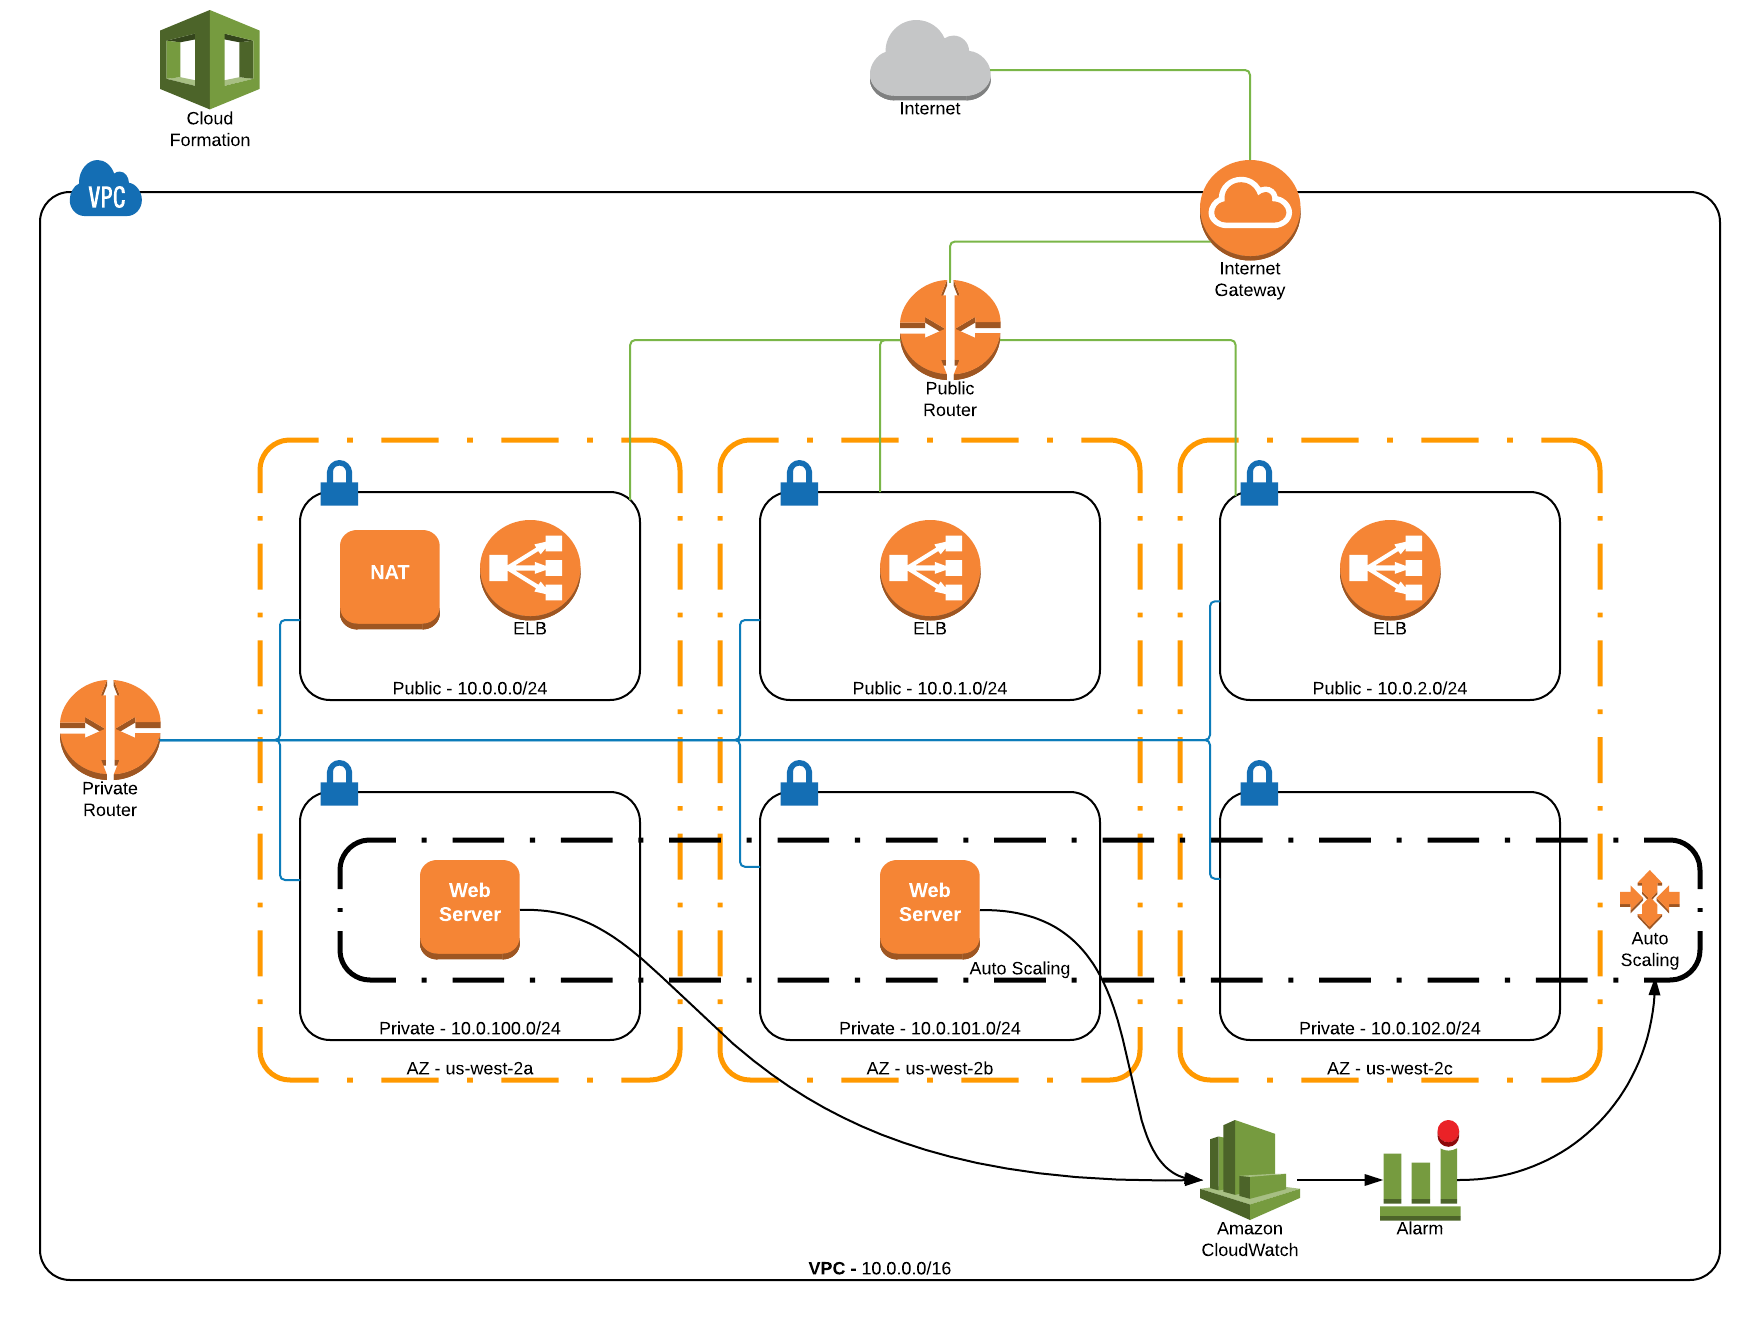
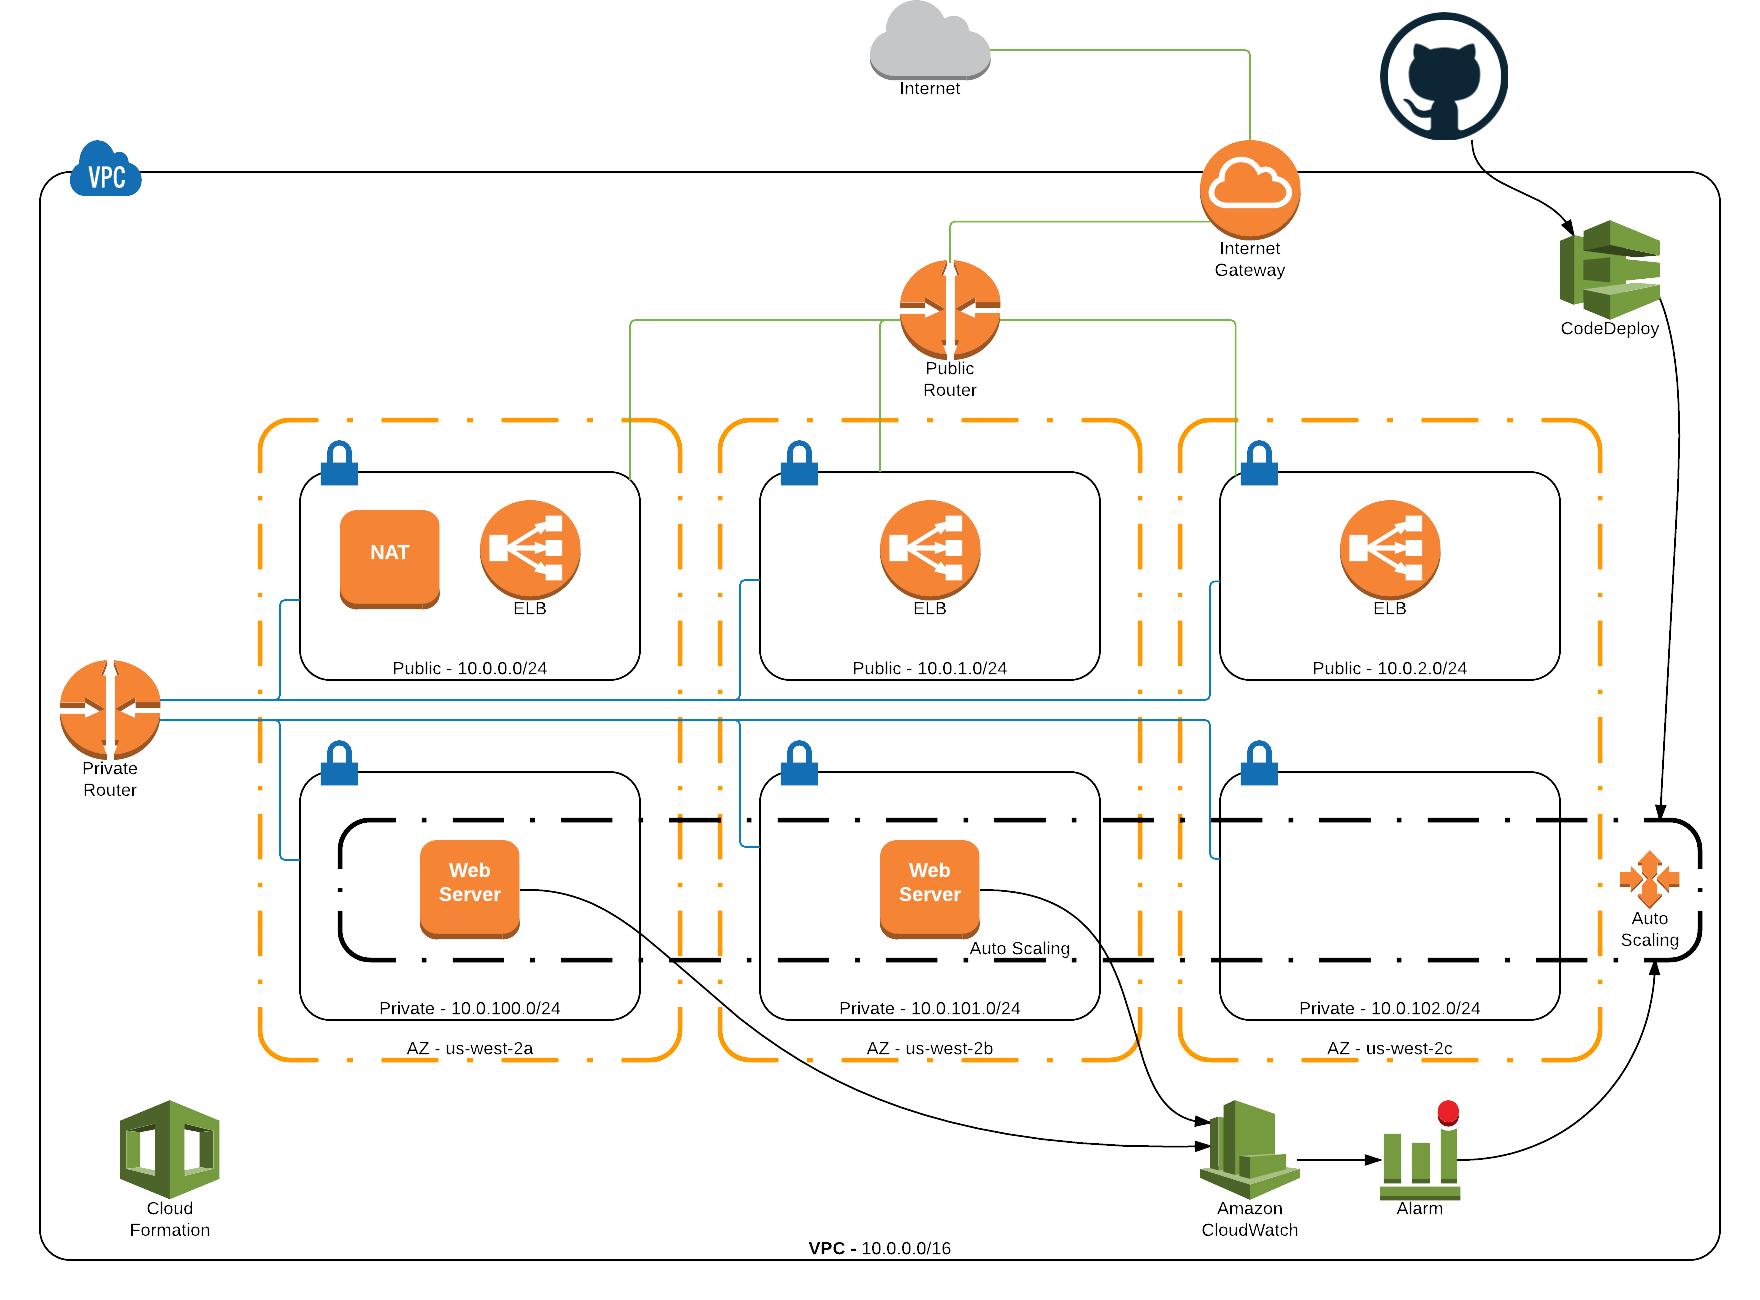
update readme for codedeploy

diff --git a/README.md b/README.md
@@ -35,7 +35,8 @@ The reliability of the site is achieved with the following components:
 * **Multiple AZs** - The web servers are deployed in multiple availability zones to ensure that the system is still available even in the event of a service outage in one of the AZs.
 * **Elastic Load Balancers** - A cross zone ELB is configured in front of the web server instances to evenly balance the load across the instances.  Also the ELB uses an HTTP monitor to measure the health of each web server instance and will pull instances out of service if they are unhealthy.
 * **Blue-Green Deployments** - The system allows [Blue-Green Deployments](http://martinfowler.com/bliki/BlueGreenDeployment.html) to be performed to improve the reliability of the system, even during an upgrade.  The process would consist of using the CloudFormation template to provision a new stack and then using Route53 [weighted round-robin](http://docs.aws.amazon.com/Route53/latest/DeveloperGuide/routing-policy.html) to send only small percentage of traffic to the new stack (also referred to as canary deployment).  The traffic is then gradually moved to the new stack and the old is eventually turned off. 
-* **Infrastructure Testing** - The CloudFormation init script for each web server includes a test to validate that the correct static page is being served by the web server.  If the test doesn't pass, the server is terminated.
+* **Infrastructure Automation** - CodeDeploy is used to deploy the app to ensure consistency
+* **Infrastructure Testing** - The CodeDeploy script for each web server includes a test to validate that the correct static page is being served by the web server.  If the test doesn't pass, the server is terminated.
 
 ### Performance
 Performance of the site is accomplished with the following components:
